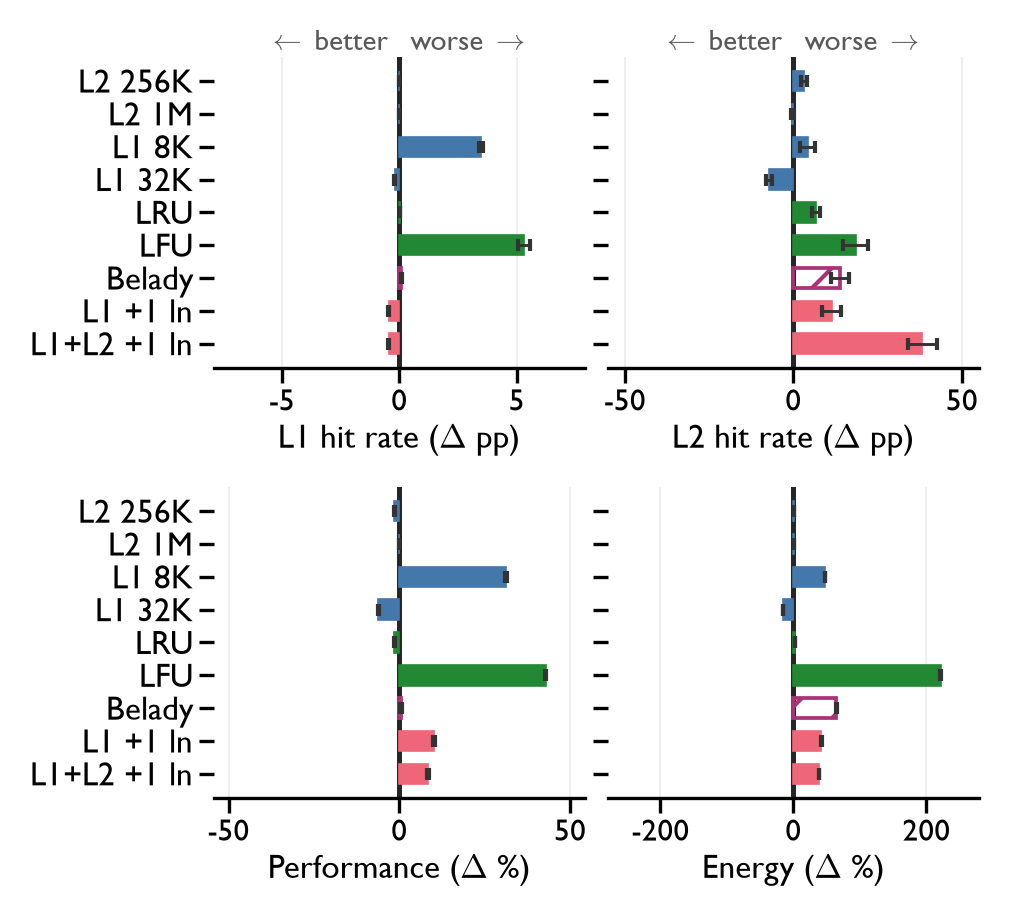
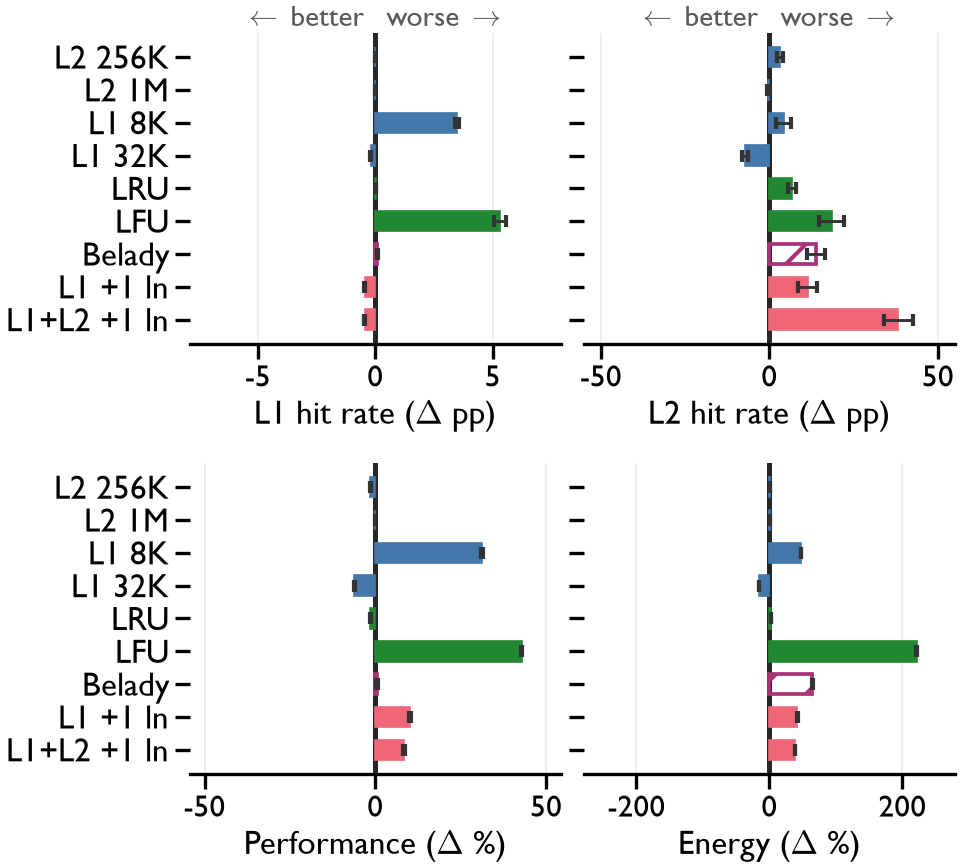
figure scripts: pad_inches=0.02 on all tight exports

diff --git a/zoo/roofline/fig_roofline_cacheA.py b/zoo/roofline/fig_roofline_cacheA.py
@@ -156,8 +156,8 @@ def main() -> None:
               loc="lower center", bbox_to_anchor=(0.5, 1.01),
               handletextpad=0.3, columnspacing=0.7, borderaxespad=0.0)
 
-    fig.savefig(OUT / "fig_roofline_cacheA.pdf", bbox_inches="tight")
-    fig.savefig(OUT / "fig_roofline_cacheA.png", bbox_inches="tight", dpi=300)
+    fig.savefig(OUT / "fig_roofline_cacheA.pdf", bbox_inches="tight", pad_inches=0.02)
+    fig.savefig(OUT / "fig_roofline_cacheA.png", bbox_inches="tight", pad_inches=0.02, dpi=300)
     n_set = {int(p["n_samples"]) for p in points}
     print(f"points: {len(points)}; n per point: {sorted(n_set)}; font: {family}")
     print("wrote outputs/fig_roofline_cacheA.pdf / .png")

diff --git a/zoo/fig1_energy_profiling/src/fig1_redo.py b/zoo/fig1_energy_profiling/src/fig1_redo.py
@@ -96,8 +96,8 @@ def main():
                ncol=2, frameon=False, fontsize=7, loc="lower center",
                bbox_to_anchor=(0.54, 0.915), handletextpad=0.5, columnspacing=0.9)
     fig.tight_layout()
-    fig.savefig(OUT / "fig1_energy_profiling_v2.pdf", bbox_inches="tight")
-    fig.savefig(OUT / "fig1_energy_profiling_v2.png", bbox_inches="tight", dpi=300)
+    fig.savefig(OUT / "fig1_energy_profiling_v2.pdf", bbox_inches="tight", pad_inches=0.02)
+    fig.savefig(OUT / "fig1_energy_profiling_v2.png", bbox_inches="tight", pad_inches=0.02, dpi=300)
     print("wrote outputs/fig1_energy_profiling_v2.pdf / .png")
     print(f"font: {family}")
 

diff --git a/zoo/roofline/fig_spad_cache_bars.py b/zoo/roofline/fig_spad_cache_bars.py
@@ -195,8 +195,8 @@ def main() -> None:
                bbox_to_anchor=(0.5, 1.0), handletextpad=0.4, columnspacing=0.8,
                borderaxespad=0.0)
     fig.tight_layout()
-    fig.savefig(OUT / "fig_spad_cache_bars.pdf", bbox_inches="tight")
-    fig.savefig(OUT / "fig_spad_cache_bars.png", bbox_inches="tight", dpi=300)
+    fig.savefig(OUT / "fig_spad_cache_bars.pdf", bbox_inches="tight", pad_inches=0.02)
+    fig.savefig(OUT / "fig_spad_cache_bars.png", bbox_inches="tight", pad_inches=0.02, dpi=300)
 
     print(f"font: {family}")
     for arch in base.ARCHES:

diff --git a/zoo/cache_dse/analysis/fig_reuse_pdf.py b/zoo/cache_dse/analysis/fig_reuse_pdf.py
@@ -117,7 +117,7 @@ ax.grid(alpha=0.25, lw=0.4)
 ax.set_axisbelow(True)
 ax.spines[["top", "right"]].set_visible(False)
 
-fig.savefig(HERE / "fig_reuse_pdf.pdf", bbox_inches="tight")
-fig.savefig(HERE / "fig_reuse_pdf.png", bbox_inches="tight", dpi=300)
+fig.savefig(HERE / "fig_reuse_pdf.pdf", bbox_inches="tight", pad_inches=0.02)
+fig.savefig(HERE / "fig_reuse_pdf.png", bbox_inches="tight", pad_inches=0.02, dpi=300)
 print("font family used:", family)
 print("wrote fig_reuse_pdf.pdf / .png")

diff --git a/zoo/eval_scaling/sched_scaling/analyze.py b/zoo/eval_scaling/sched_scaling/analyze.py
@@ -144,7 +144,7 @@ def plot(rows) -> None:
     fig.tight_layout()
     for suffix in ("png", "pdf"):
         path = OUT / f"sched_scaling.{suffix}"
-        fig.savefig(path, dpi=300 if suffix == "png" else None, bbox_inches="tight")
+        fig.savefig(path, dpi=300 if suffix == "png" else None, bbox_inches="tight", pad_inches=0.02)
         print(f"-> {path}")
     print(f"font: {family}")
 

diff --git a/zoo/cache_dse/fig_dse_tornado.py b/zoo/cache_dse/fig_dse_tornado.py
@@ -118,7 +118,7 @@ def main() -> None:
     fig.tight_layout(h_pad=0.9, w_pad=0.6)
     for ext in ("pdf", "png"):
         fig.savefig(HERE / "results" / f"fig_dse_tornado.{ext}",
-                    bbox_inches="tight", dpi=300)
+                    bbox_inches="tight", pad_inches=0.02, dpi=300)
     print(f"font: {family}; wrote results/fig_dse_tornado.pdf / .png")
 
 
